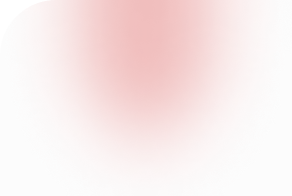
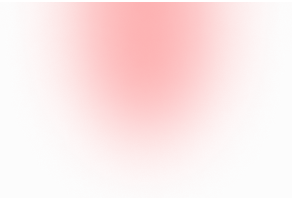
tabbar调整

Changed region(s): [[0.2158, 0.0, 0.7705, 0.0306]]

diff --git a/src/layout/loginRegister/components/navBar.vue b/src/layout/loginRegister/components/navBar.vue
@@ -3,27 +3,60 @@
 		<div class="left">
 			<SvgIcon class="arrow" iconName="/loginOrRegister/navBar/arrow" @click="goBack()" />
 		</div>
-		<div class="right" @click="languageShow = true">
+		<div class="right" @click="onLang">
 			<div class="lang">
-				<div class="lang_icon"></div>
+				<div class="lang_icon">
+					<img :src="getLangPicture" alt="" />
+				</div>
 				<SvgIcon class="down" iconName="/loginOrRegister/navBar/down" />
 			</div>
 		</div>
 	</div>
 
-	<VantPicker v-model:select="checked" :multiple="true" v-model:show="languageShow" :columns="langList" title="" toText="label" @confirm="handleConfirm" />
+	<VantPicker v-model:select="checked" :multiple="true" v-model:show="languageShow" :columns="state.langList" title="" toText="value" toValue="code" @confirm="handleConfirm">
+		<template #option="item">
+			<div class="lang_cell">
+				<img class="icon" :src="item.item.icon" alt="" />
+				<span> {{ item.item.text }}</span>
+			</div>
+		</template>
+	</VantPicker>
 </template>
 
 <script setup lang="ts">
-import { langList } from "/@/i18n/record";
 import { useUserStore } from "/@/store/modules/user";
-
+import CommonApi from "/@/api/common";
+import common from "/@/utils/common";
 const UserStore = useUserStore();
 
 const checked = ref(UserStore.getLang);
 const languageShow = ref(false);
+const state = reactive({
+	langList: [],
+});
 
-const handleConfirm = () => {};
+console.log("checked", checked);
+
+const onLang = () => {
+	languageShow.value = true;
+	getLanguageDownBox();
+};
+
+const getLanguageDownBox = async () => {
+	const res = await CommonApi.getLanguageDownBox().catch((err) => err);
+	if (res.code == common.getInstance().ResCode.SUCCESS) {
+		state.langList = res.data;
+		getLangPicture();
+	}
+};
+
+const getLangPicture = () => {};
+
+const handleConfirm = (selectedValues, selectedOptions, selectedIndexes) => {
+	console.log("selectedValues", selectedValues);
+	console.log("selectedOptions", selectedOptions);
+	console.log("selectedIndexes", selectedIndexes);
+};
 
 // 回退
 const goBack = () => {
@@ -70,6 +103,15 @@ const goBack = () => {
 				}
 			}
 		}
+	}
+}
+
+.lang_cell {
+	display: flex;
+	gap: 8px;
+	.icon {
+		width: 32px;
+		height: 32px;
 	}
 }
 </style>

diff --git a/src/layout/home/components/tabBar.vue b/src/layout/home/components/tabBar.vue
@@ -23,7 +23,7 @@
 			</div>
 
 			<!-- 首页的 tab 项 -->
-			<div v-else class="content" :class="{ active: item.path === route.path }">
+			<div v-else class="content" :class="{ active: item.path === route.path, [theme]: true }">
 				<!-- 显示首页的图标 -->
 				<div class="home-icon">
 					<img :src="item.path !== route.path ? item.icon : item.active_icon" />
@@ -82,13 +82,13 @@ const getHighlightStatus = (item) => {
 // 获取 tab 项的背景色
 const getHighlightBG = (item) => {
 	// 如果 tab 项活跃，则返回 "active" 类，否则返回空字符串
-	if (isActivePath(item.path)) return "active";
+	if (isActivePath(item.path)) return `active ${theme.value}`;
 };
 
 // 获取 tab 项的标签样式
 const getHighlightClass = (item) => {
 	// 如果 tab 项活跃，则返回 "label_active" 类，否则返回空字符串
-	if (isActivePath(item.path)) return "label_active";
+	if (isActivePath(item.path)) return "label_active ";
 };
 
 // 判断是否显示高亮分隔线
@@ -150,7 +150,7 @@ const tabData = [
 
 	.border {
 		position: absolute;
-		top: -35px;
+		bottom: 0px;
 		width: 100%;
 		z-index: -1;
 	}
@@ -170,12 +170,16 @@ const tabData = [
 		}
 
 		.active {
-			background: url("/@/assets/zh-CN/default/layout/item_bg.png") center center no-repeat;
+			@include theme-bg("/layout/item_bg.png");
+			background-position-x: center;
+			background-position-y: center;
+			background-repeat: no-repeat;
 			background-size: 100% 100%;
 		}
 
 		.line {
 			position: absolute;
+			top: 0px;
 			width: 50px;
 			height: 3px;
 		}
@@ -203,8 +207,12 @@ const tabData = [
 		}
 
 		.active {
-			background: url("/@/assets/zh-CN/default/layout/home_item_bg.png") center center no-repeat;
-			background-size: 100% 100%;
+			@include theme-bg("/layout/home_item_bg.png");
+			background-position-x: center;
+			background-position-y: bottom;
+			background-repeat: no-repeat;
+			background-size: cover;
+			background-clip: border-box;
 		}
 		.home-icon {
 			position: absolute;

diff --git a/src/components/vant/VantPicker.vue b/src/components/vant/VantPicker.vue
@@ -32,6 +32,10 @@
 				<template #confirm>
 					<div class="right">{{ confirmButtonText }}</div>
 				</template>
+
+				<template #option="item">
+					<slot name="option" :item="item"></slot>
+				</template>
 			</van-picker>
 		</van-popup>
 
@@ -50,6 +54,7 @@ interface CustomFieldName {
 	text: string;
 	value: string | number;
 	children: any;
+	icon: string;
 }
 
 const props = withDefaults(
@@ -85,6 +90,7 @@ const props = withDefaults(
 		toText?: string;
 		//需要映射到组件value的后端字段key 默认为code
 		toValue?: string | number;
+		icon?: string;
 	}>(),
 	{
 		show: false,
@@ -101,6 +107,7 @@ const props = withDefaults(
 		optionHeight: "10.933333vw",
 		toText: "name",
 		toValue: "code",
+		icon: "icon",
 	}
 );
 
@@ -144,6 +151,7 @@ const dataMap = () => {
 		newObj.text = item[props.toText];
 		newObj.value = String(item[props.toValue]);
 		newObj.children = "";
+		newObj.icon = item[props.icon];
 		return newObj;
 	}) as Array<CustomFieldName>;
 	// console.log(state.columnsMap, "映射数据==============");

diff --git a/src/views/my/my.vue b/src/views/my/my.vue
@@ -72,7 +72,7 @@
 						<SvgIcon class="icon" :iconName="item.icon" />
 						<div class="label">{{ item.name }}</div>
 						<div class="value">{{ item.value }}</div>
-						<SvgIcon class="arrow" iconName="/common/arrow" />
+						<SvgIcon v-if="item.icon !== '/my/zhb'" class="arrow" iconName="/common/arrow" />
 					</div>
 					<div class="cell">
 						<SvgIcon class="icon" iconName="/my/theme" />
@@ -190,13 +190,13 @@ const menuData = {
 		{
 			name: "语言",
 			icon: "/my/lang",
-			value: "",
+			value: "中文",
 			path: "",
 		},
 		{
 			name: "版本号",
 			icon: "/my/beh",
-			value: "",
+			value: "v 1.00",
 			path: "",
 		},
 	],
@@ -278,7 +278,7 @@ const loginOut = () => {
 		@include themeify {
 			color: themed("TB");
 		}
-		font-family: Inter;
+		font-family: "PingFang SC";
 		font-size: 32px;
 		font-weight: 500;
 	}

diff --git a/src/App.vue b/src/App.vue
@@ -7,6 +7,7 @@
 
 <script setup lang="ts">
 import { loginApi } from "/@/api/loginRegister";
+import CommonApi from "/@/api/common";
 import common from "/@/utils/common";
 import { useRouter } from "vue-router";
 import MenuPopup from "/@/layout/home/components/menuPopup.vue";
@@ -24,6 +25,7 @@ const loginInfo = computed(() => {
 
 onBeforeMount(() => {
 	initTheme();
+	getLang();
 	autoLogin();
 	console.log("初始化");
 });
@@ -41,6 +43,12 @@ const autoLogin = async () => {
 	const res = await loginApi.submitUserLogin(params).catch((err) => err);
 	if (res.code == common.getInstance().ResCode.SUCCESS) {
 		store.setInfo(res.data);
+	}
+};
+
+const getLang = async () => {
+	const res = await CommonApi.getLang().catch((err) => err);
+	if (res.code == common.getInstance().ResCode.SUCCESS) {
 	}
 };
 

diff --git a/src/api/common.ts b/src/api/common.ts
@@ -10,6 +10,28 @@ class CommonApi {
 			headers,
 		});
 	};
+
+	/**
+	 *@description 多语言数据
+	 */
+	static getLanguageDownBox = (data = {}, headers = {}) => {
+		return useAxiosApi(`/app/common/getLanguageDownBox`, {
+			method: "POST",
+			data,
+			headers,
+		});
+	};
+
+	/**
+	 *@description 根据ip获取语种
+	 */
+	static getLang = (data = {}, headers = {}) => {
+		return useAxiosApi(`/app/lang/api/getLang`, {
+			method: "POST",
+			data,
+			headers,
+		});
+	};
 }
 
 export default CommonApi;

diff --git a/src/layout/home/components/navBar.vue b/src/layout/home/components/navBar.vue
@@ -104,18 +104,17 @@ const onCollapse = () => {
 				@include themeify {
 					color: themed("TB");
 				}
-				font-family: Inter;
+				font-family: "PingFang SC";
 				font-size: 24px;
 				font-weight: 500;
 			}
 			.balance {
-				margin-top: 1px;
 				@include themeify {
 					color: themed("TB");
 				}
-				font-family: Inter;
+				font-family: "PingFang SC";
 				font-size: 28px;
-				font-weight: 700;
+				font-weight: 600;
 			}
 		}
 	}

diff --git a/src/views/my/components/noLogin.vue b/src/views/my/components/noLogin.vue
@@ -149,6 +149,7 @@ const toPath = (path) => {
 			align-items: center;
 			justify-content: space-between;
 			padding: 0px 19px 0px 24px;
+
 			box-sizing: border-box;
 
 			&::after {
@@ -190,6 +191,12 @@ const toPath = (path) => {
 			.arrow {
 				width: 24px;
 				height: 24px;
+				@include themeify {
+					color: themed("T1");
+				}
+				svg {
+					vertical-align: top;
+				}
 			}
 			.themeChange_icon {
 				width: 99px;

diff --git a/src/views/securityCenter/securityCenter/securityCenter.vue b/src/views/securityCenter/securityCenter/securityCenter.vue
@@ -163,6 +163,12 @@ const onClickLeft = () => {
 		.arrow {
 			width: 24px;
 			height: 24px;
+			@include themeify {
+				color: themed("T1");
+			}
+			svg {
+				vertical-align: top;
+			}
 		}
 		.themeChange_icon {
 			width: 99px;
